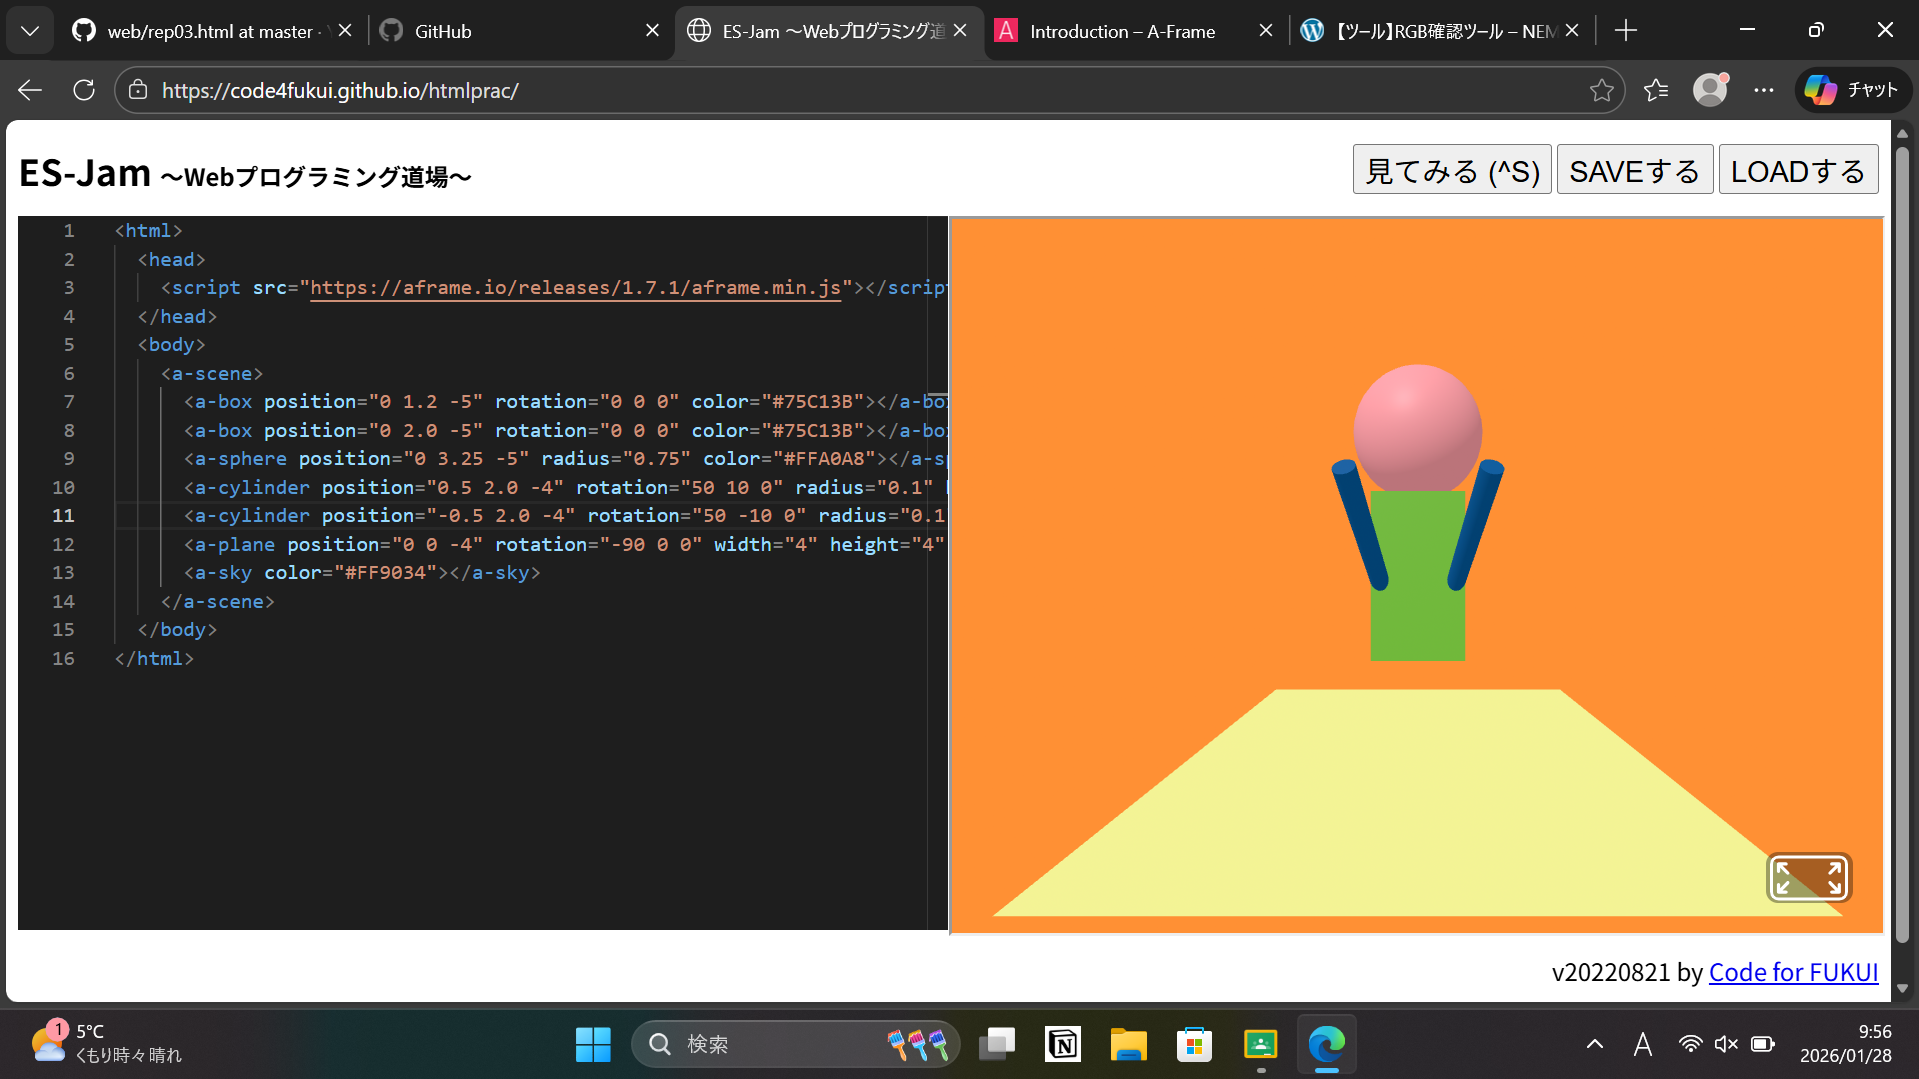
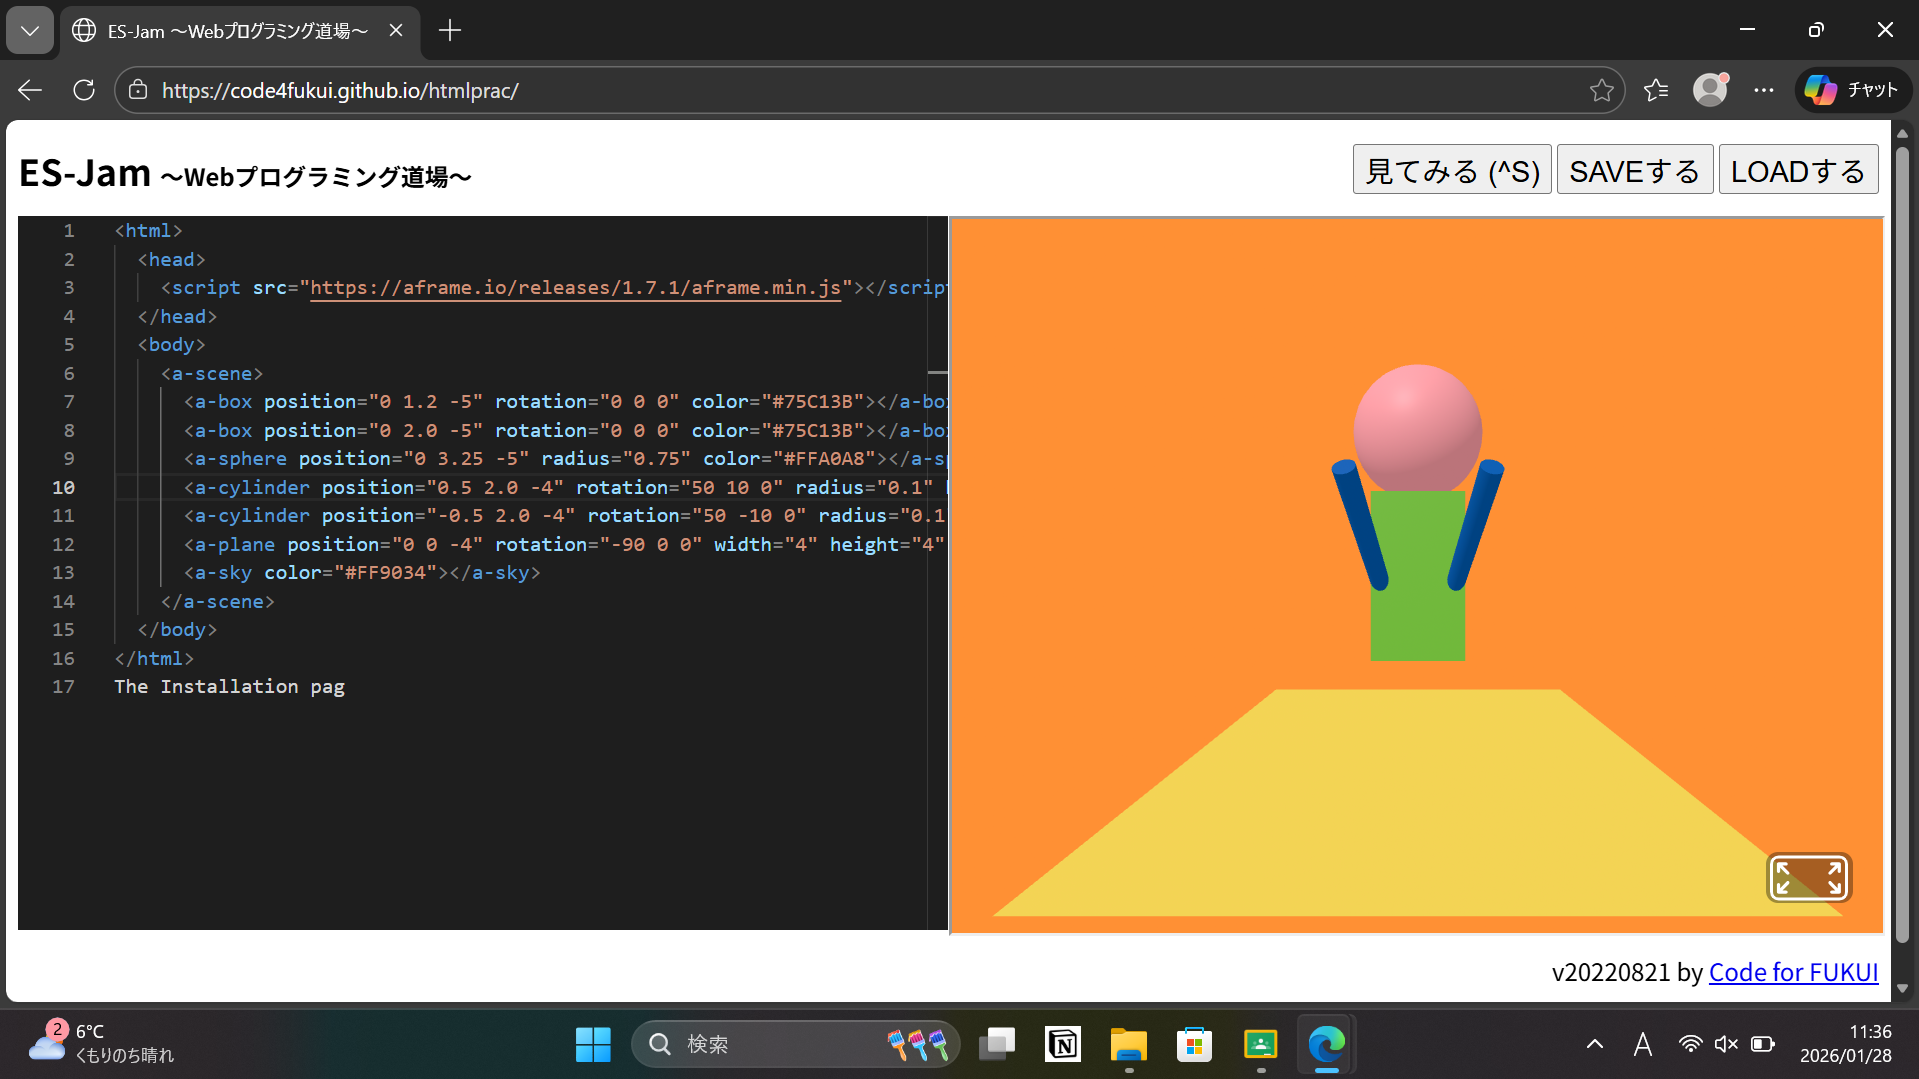
Add files via upload

diff --git a/vr.html b/vr.html
@@ -1,0 +1,17 @@
+<html>
+  <head>
+    <script src="https://aframe.io/releases/1.7.1/aframe.min.js"></script>
+  </head>
+  <body>
+    <a-scene>
+      <a-box position="0 1.2 -5" rotation="0 0 0" color="#75C13B"></a-box>
+      <a-box position="0 2.0 -5" rotation="0 0 0" color="#75C13B"></a-box>
+      <a-sphere position="0 3.25 -5" radius="0.75" color="#FFA0A8"></a-sphere>
+      <a-cylinder position="0.5 2.0 -4" rotation="50 10 0" radius="0.1" height="1.5" color="#005DB2"></a-cylinder>
+      <a-cylinder position="-0.5 2.0 -4" rotation="50 -10 0" radius="0.1" height="1.5" color="#005DB2"></a-cylinder>
+      <a-plane position="0 0 -4" rotation="-90 0 0" width="4" height="4" color="#FFDE58"></a-plane>
+      <a-sky color="#FF9034"></a-sky>
+    </a-scene>
+  </body>
+</html>
+The Installation pag
